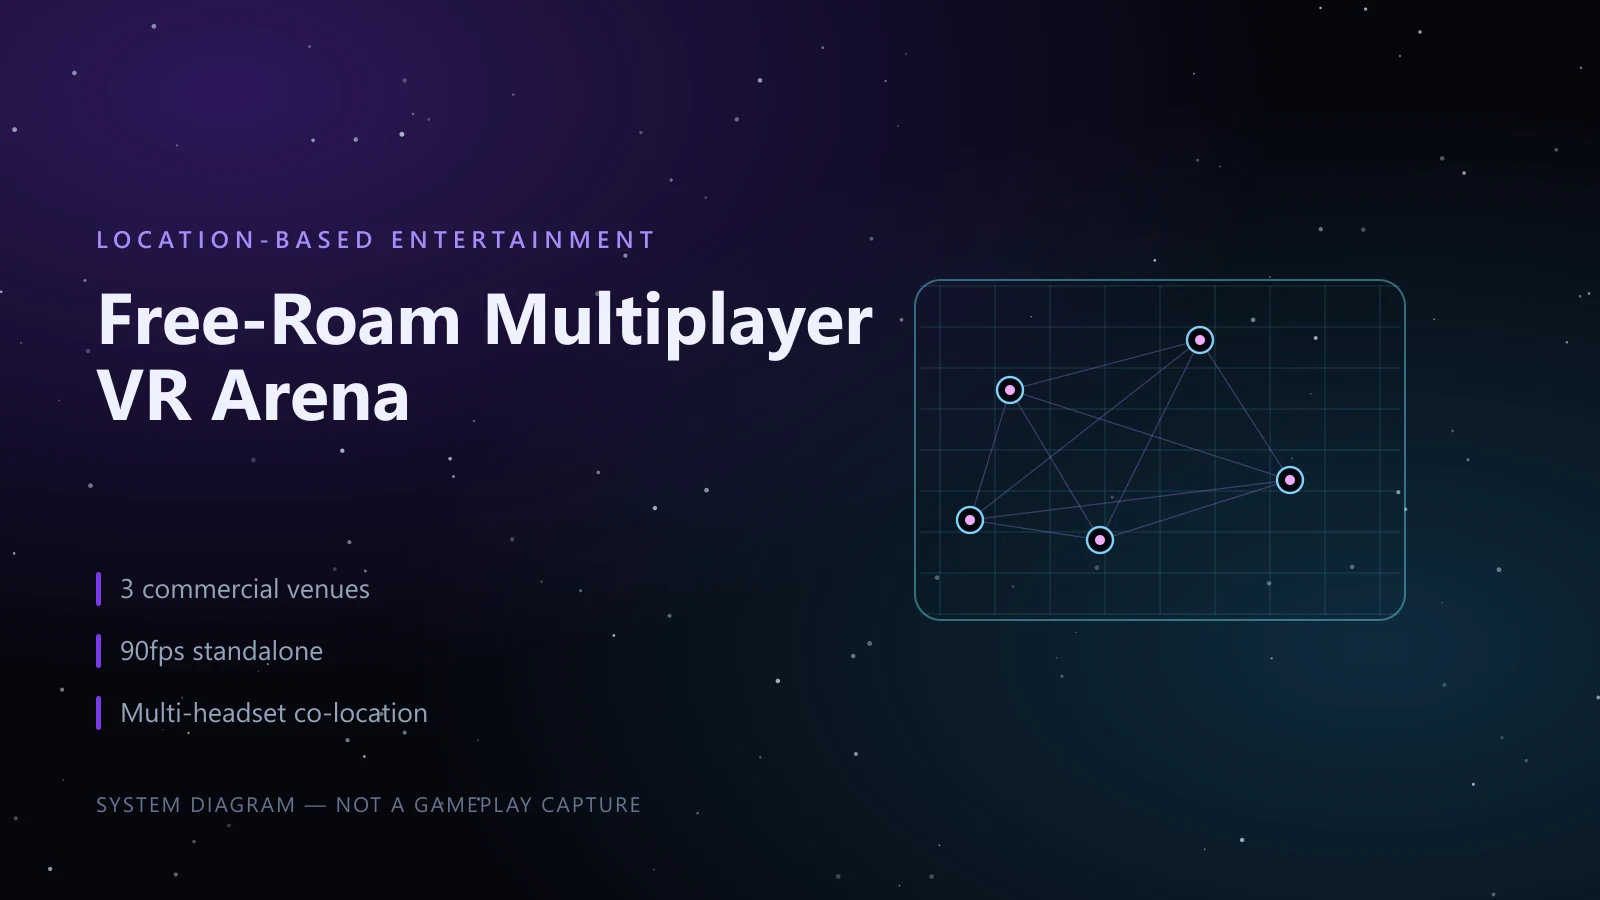
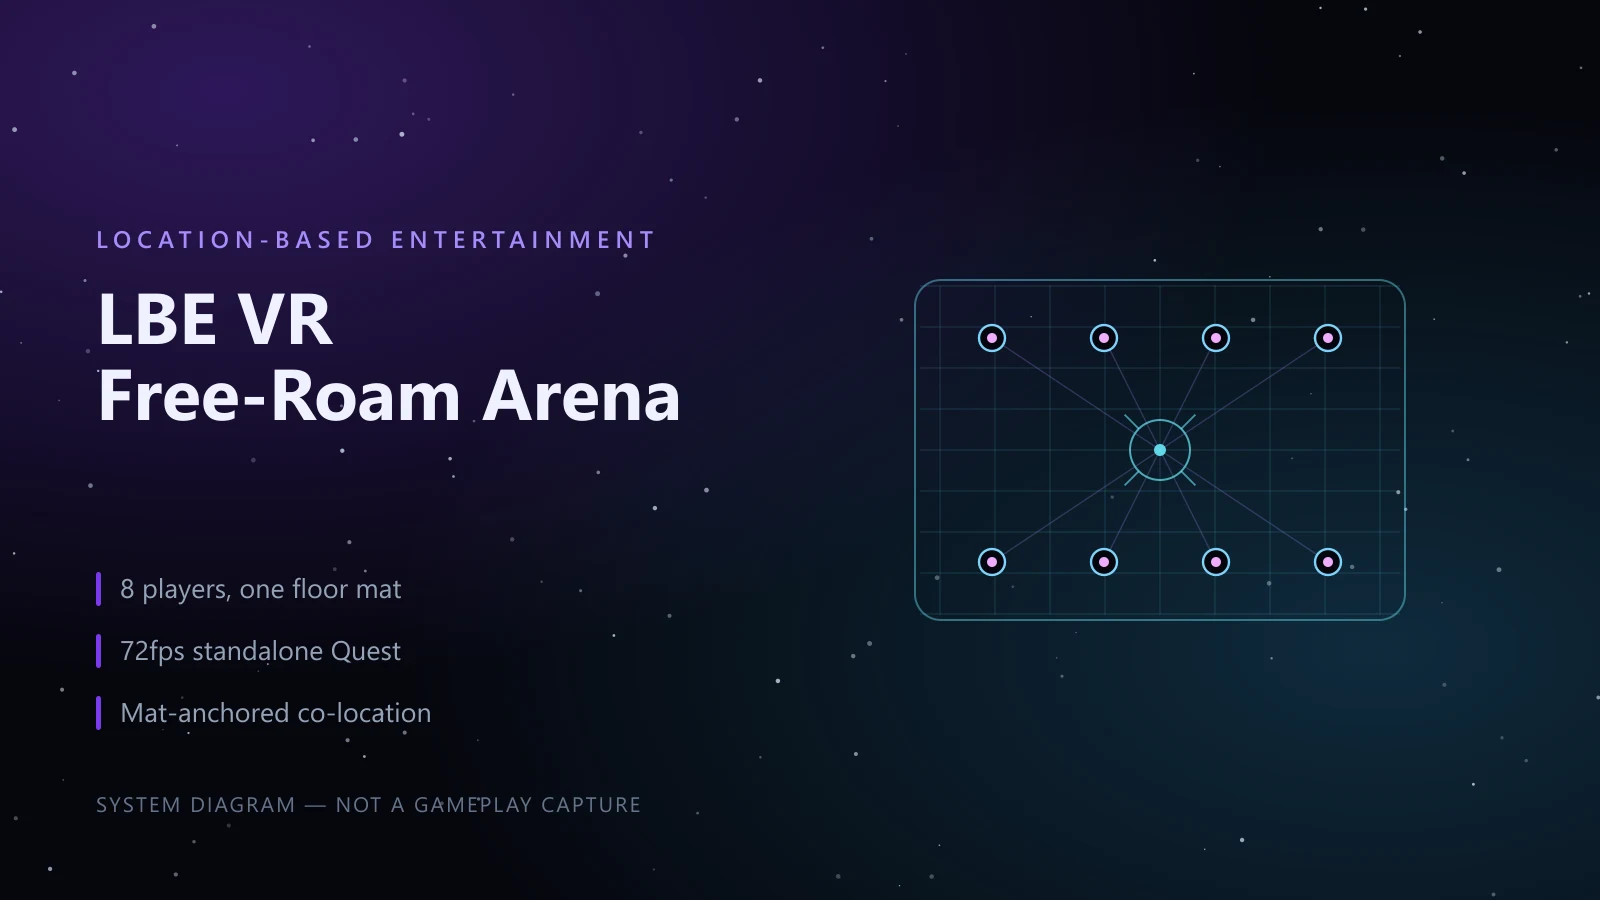
Correct the venue count and frame rate site-wide
The arena is one product, and its reference document puts it at a 72fps
target with its first venue still ahead of it -- so "live in 3 commercial
venues" and "90fps" were wrong everywhere they appeared: the home proof
chips, the About career entry, two service proof lines and the services
intro.

Both claims were also baked into generated artwork, so the generators
and their output are updated too: the share card said "90fps standalone",
and the arena project card said "3 commercial venues" under the old
title. While regenerating that card, its motif now shows the real
layout -- eight squares in two facing rows, each sighting the
calibration marker at mat centre -- instead of five arbitrary nodes in
a mesh.

diff --git a/scripts/generate-project-cards.js b/scripts/generate-project-cards.js
@@ -36,7 +36,8 @@ function stars(seed) {
 /* Free-roam arena: co-located players sharing one tracked space. */
 function arenaMotif(cx, cy) {
   const players = [
-    [-150, -60], [40, -110], [130, 30], [-60, 90], [-190, 70],
+    [-168, -112], [-56, -112], [56, -112], [168, -112],
+    [-168, 112], [-56, 112], [56, 112], [168, 112],
   ];
   let grid = '';
   for (let i = -4; i <= 4; i += 1) {
@@ -44,10 +45,15 @@ function arenaMotif(cx, cy) {
     grid += `<line x1="${cx - 240}" y1="${cy + i * 41}" x2="${cx + 240}" y2="${cy + i * 41}" stroke="#67e8f9" stroke-width="1" opacity="0.16"/>`;
   }
   let links = '';
-  for (let i = 0; i < players.length; i += 1) {
-    for (let j = i + 1; j < players.length; j += 1) {
-      links += `<line x1="${cx + players[i][0]}" y1="${cy + players[i][1]}" x2="${cx + players[j][0]}" y2="${cy + players[j][1]}" stroke="#a78bfa" stroke-width="1.3" opacity="0.3"/>`;
-    }
+  players.forEach(([x, y]) => {
+    links += `<line x1="${cx + x}" y1="${cy + y}" x2="${cx}" y2="${cy}" stroke="#a78bfa" stroke-width="1.3" opacity="0.26"/>`;
+  });
+  /* The calibration print at mat centre: ring plus radial lines. */
+  let marker = `<circle cx="${cx}" cy="${cy}" r="30" fill="none" stroke="#67e8f9" stroke-width="2" opacity="0.7"/>
+                <circle cx="${cx}" cy="${cy}" r="6" fill="#67e8f9" opacity="0.9"/>`;
+  for (let i = 0; i < 4; i += 1) {
+    const a = (i / 4) * Math.PI * 2 + Math.PI / 4;
+    marker += `<line x1="${(cx + Math.cos(a) * 30).toFixed(1)}" y1="${(cy + Math.sin(a) * 30).toFixed(1)}" x2="${(cx + Math.cos(a) * 50).toFixed(1)}" y2="${(cy + Math.sin(a) * 50).toFixed(1)}" stroke="#67e8f9" stroke-width="1.8" opacity="0.6"/>`;
   }
   const nodes = players
     .map(
@@ -56,7 +62,7 @@ function arenaMotif(cx, cy) {
          <circle cx="${cx + x}" cy="${cy + y}" r="5" fill="#f0abfc"/>`,
     )
     .join('');
-  return `<rect x="${cx - 245}" y="${cy - 170}" width="490" height="340" rx="26" fill="none" stroke="#67e8f9" stroke-width="2" opacity="0.42"/>${grid}${links}${nodes}`;
+  return `<rect x="${cx - 245}" y="${cy - 170}" width="490" height="340" rx="26" fill="none" stroke="#67e8f9" stroke-width="2" opacity="0.42"/>${grid}${links}${marker}${nodes}`;
 }
 
 /* xrapp.dev: instructor-led cohort around one authoritative session. */
@@ -105,9 +111,9 @@ const CARDS = [
   {
     slug: 'free-roam-vr-arena',
     eyebrow: 'LOCATION-BASED ENTERTAINMENT',
-    title: 'Free-Roam Multiplayer',
-    title2: 'VR Arena',
-    facts: ['3 commercial venues', '90fps standalone', 'Multi-headset co-location'],
+    title: 'LBE VR',
+    title2: 'Free-Roam Arena',
+    facts: ['8 players, one floor mat', '72fps standalone Quest', 'Mat-anchored co-location'],
     motif: arenaMotif,
     seed: 4101,
   },

diff --git a/scripts/generate-og.js b/scripts/generate-og.js
@@ -88,7 +88,7 @@ const svg = `<svg xmlns="http://www.w3.org/2000/svg" width="${WIDTH}" height="${
     <text x="80" y="150" fill="#a78bfa" font-size="25" font-weight="600" letter-spacing="7">LEAD XR ENGINEER</text>
     <text x="80" y="252" fill="#EFF1FF" font-size="76" font-weight="700">Akaash Garg</text>
     <text x="80" y="326" fill="#EFF1FF" font-size="35" font-weight="600">Enterprise XR, multiplayer</text>
-    <text x="80" y="374" fill="#EFF1FF" font-size="35" font-weight="600">systems, and 90fps standalone.</text>
+    <text x="80" y="374" fill="#EFF1FF" font-size="35" font-weight="600">systems, and 72fps standalone.</text>
     <text x="80" y="452" fill="#94A3B8" font-size="25">Unity · OpenXR · Photon Fusion · Meta Quest</text>
     <rect x="78" y="502" width="6" height="46" rx="3" fill="#7C3AED"/>
     <text x="104" y="536" fill="#bae6fd" font-size="26" font-weight="600" letter-spacing="2">akaashgarg.com</text>
